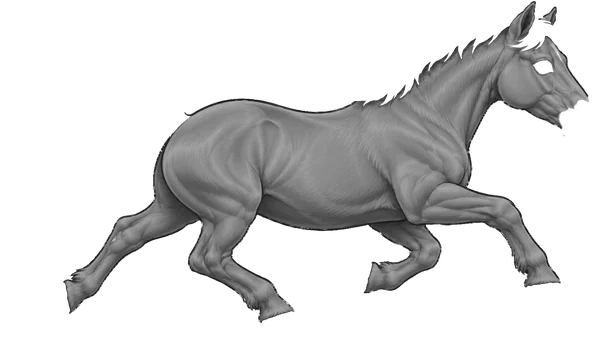
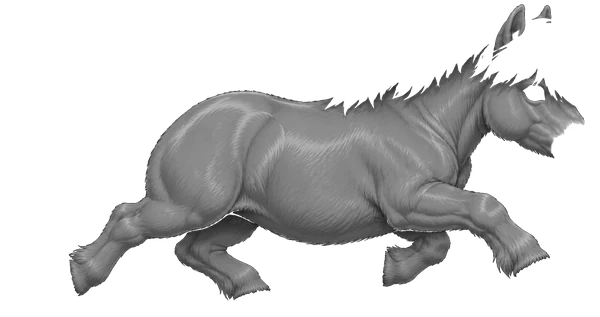
Update 22.11.2026 18:03

Changed region(s): [[0.09, 0.0, 0.99, 0.9653], [0.48, 0.4259, 0.6, 0.4826]]

diff --git a/online/rallye-trainer.html b/online/rallye-trainer.html
@@ -133,12 +133,17 @@
   @keyframes bandlauf{ from{transform:translateX(0)} to{transform:translateX(calc(-1 * var(--k)))} }
   .bahn .strasse.bild{background:none;border-top:none;overflow:hidden}
   .strasse.bild .mittellinie{top:46%;height:4px;opacity:.55}
+  .bahn.pferd .strasse.bild .mittellinie{display:none}                       /* Wiese: keine Fahrbahn-Striche */
   .bahn.bildHind .hindernis{--hb:190px;width:var(--hb);height:calc(var(--hb) * var(--hs));min-width:0;box-sizing:border-box;
     background:var(--hbild) center/100% 100% no-repeat;border:none;border-radius:0;box-shadow:none;bottom:10px;
     padding:calc(var(--hb) * var(--hs) * var(--to)) calc(var(--hb) * (1 - var(--tr))) calc(var(--hb) * var(--hs) * (1 - var(--tu))) calc(var(--hb) * var(--tl));
     display:flex;align-items:center;justify-content:center;white-space:nowrap;overflow:hidden;font-size:26px}
   @media (max-width:520px){ .bahn.bildHind .hindernis{--hb:160px;font-size:22px} }
   @media (max-width:400px){ .bahn.bildHind .hindernis{--hb:142px;font-size:21px} }
+  /* Pferde: die Tafel im Springhindernis ist schmaler – das Hindernis etwas größer, damit lange Aufgaben lesbar bleiben */
+  .bahn.pferd.bildHind .hindernis{--hb:256px}
+  @media (max-width:520px){ .bahn.pferd.bildHind .hindernis{--hb:216px} }
+  @media (max-width:400px){ .bahn.pferd.bildHind .hindernis{--hb:170px} }
 
   .boxstop{position:absolute;inset:0;z-index:9;background:rgba(5,10,22,.88);
     display:flex;flex-direction:column;align-items:center;justify-content:center;gap:6px;text-align:center;padding:12px}
@@ -925,7 +930,8 @@ function mitTuning(svg, id, tune, gold){
 // ===== Gemalte Modelle (vom Lehrer gemalt, Teil zum Umfärben in Magenta) =====
 // bilder/rallye/<id>_s.webp = Schatten des Lack-Teils in Grau (128 = genau die gewählte Farbe), <id>_r.webp = alles andere.
 // Die Farbe (auch Verläufe wie Gold oder Regenbogen) liegt unter den Schatten, Mischung „hard-light".
-const BILD_FZ={p1:1, p3:1, p9:1, p10:1, r1:1};     // Pferde 22.11.2026 realistisch (Pony, Reitpferd, Einhorn, Pegasus)
+const BILD_FZ={r1:1};
+for(let i=1;i<=20;i++) BILD_FZ["p"+i]=1;                 // alle 20 Pferde realistisch (22.11.2026) (Pony, Reitpferd, Einhorn, Pegasus)
 for(let i=1;i<=20;i++) BILD_FZ["a"+i]=1;      // 22.11.2026: alle 20 Autos gemalt (realistischer Stil)
 let bildNr=0;
 function svgBild(id,c){
@@ -1052,9 +1058,9 @@ const RAUM_Y=[-8,-96,-44,-132,-66,-114,-22,-78,-140,-52,-104,-30];
 const RAUM_GR=[30,19,25,15,27,17,22,32,14,24,18,28];
 // Gemalte Hintergründe je Welt und Strecke (bilder/rallye/bg_<welt><nr>_oben/_strasse.webp, aus hintergrund_bauen.py):
 // strasse = Anteil der Straße an der Bildhöhe, seite = Kachelbreite / Bildhöhe. Fehlt eine Strecke, nimmt die Welt ihr erstes Bild.
-const BG_BILD={ auto1:{strasse:0.2841, seite:1.8417} };
+const BG_BILD={ auto1:{strasse:0.2841, seite:1.8417}, pferd1:{strasse:0.3224, seite:4.0} };
 // Gemalte Hindernisse: seite = Höhe/Breite, tafel = leere Tafel (links, oben, rechts, unten als Anteil) – dort steht die Aufgabe
-const HIND_BILD={ auto:{seite:0.49, tafel:[0.124,0.095,0.877,0.57]} };
+const HIND_BILD={ auto:{seite:0.49, tafel:[0.124,0.095,0.877,0.57]}, pferd:{seite:0.5, tafel:[0.236,0.274,0.765,0.719]} };
 function bgFuer(){ if(BG_BILD[welt+strecke]) return welt+strecke; for(let n=1;n<=5;n++) if(BG_BILD[welt+n]) return welt+n; return null; }
 const BAND_TEMPO={oben:26, strasse:120};      // Pixel pro Sekunde: Kulisse langsam, Straße schnell (Tiefe)
 function baendStellen(box){
